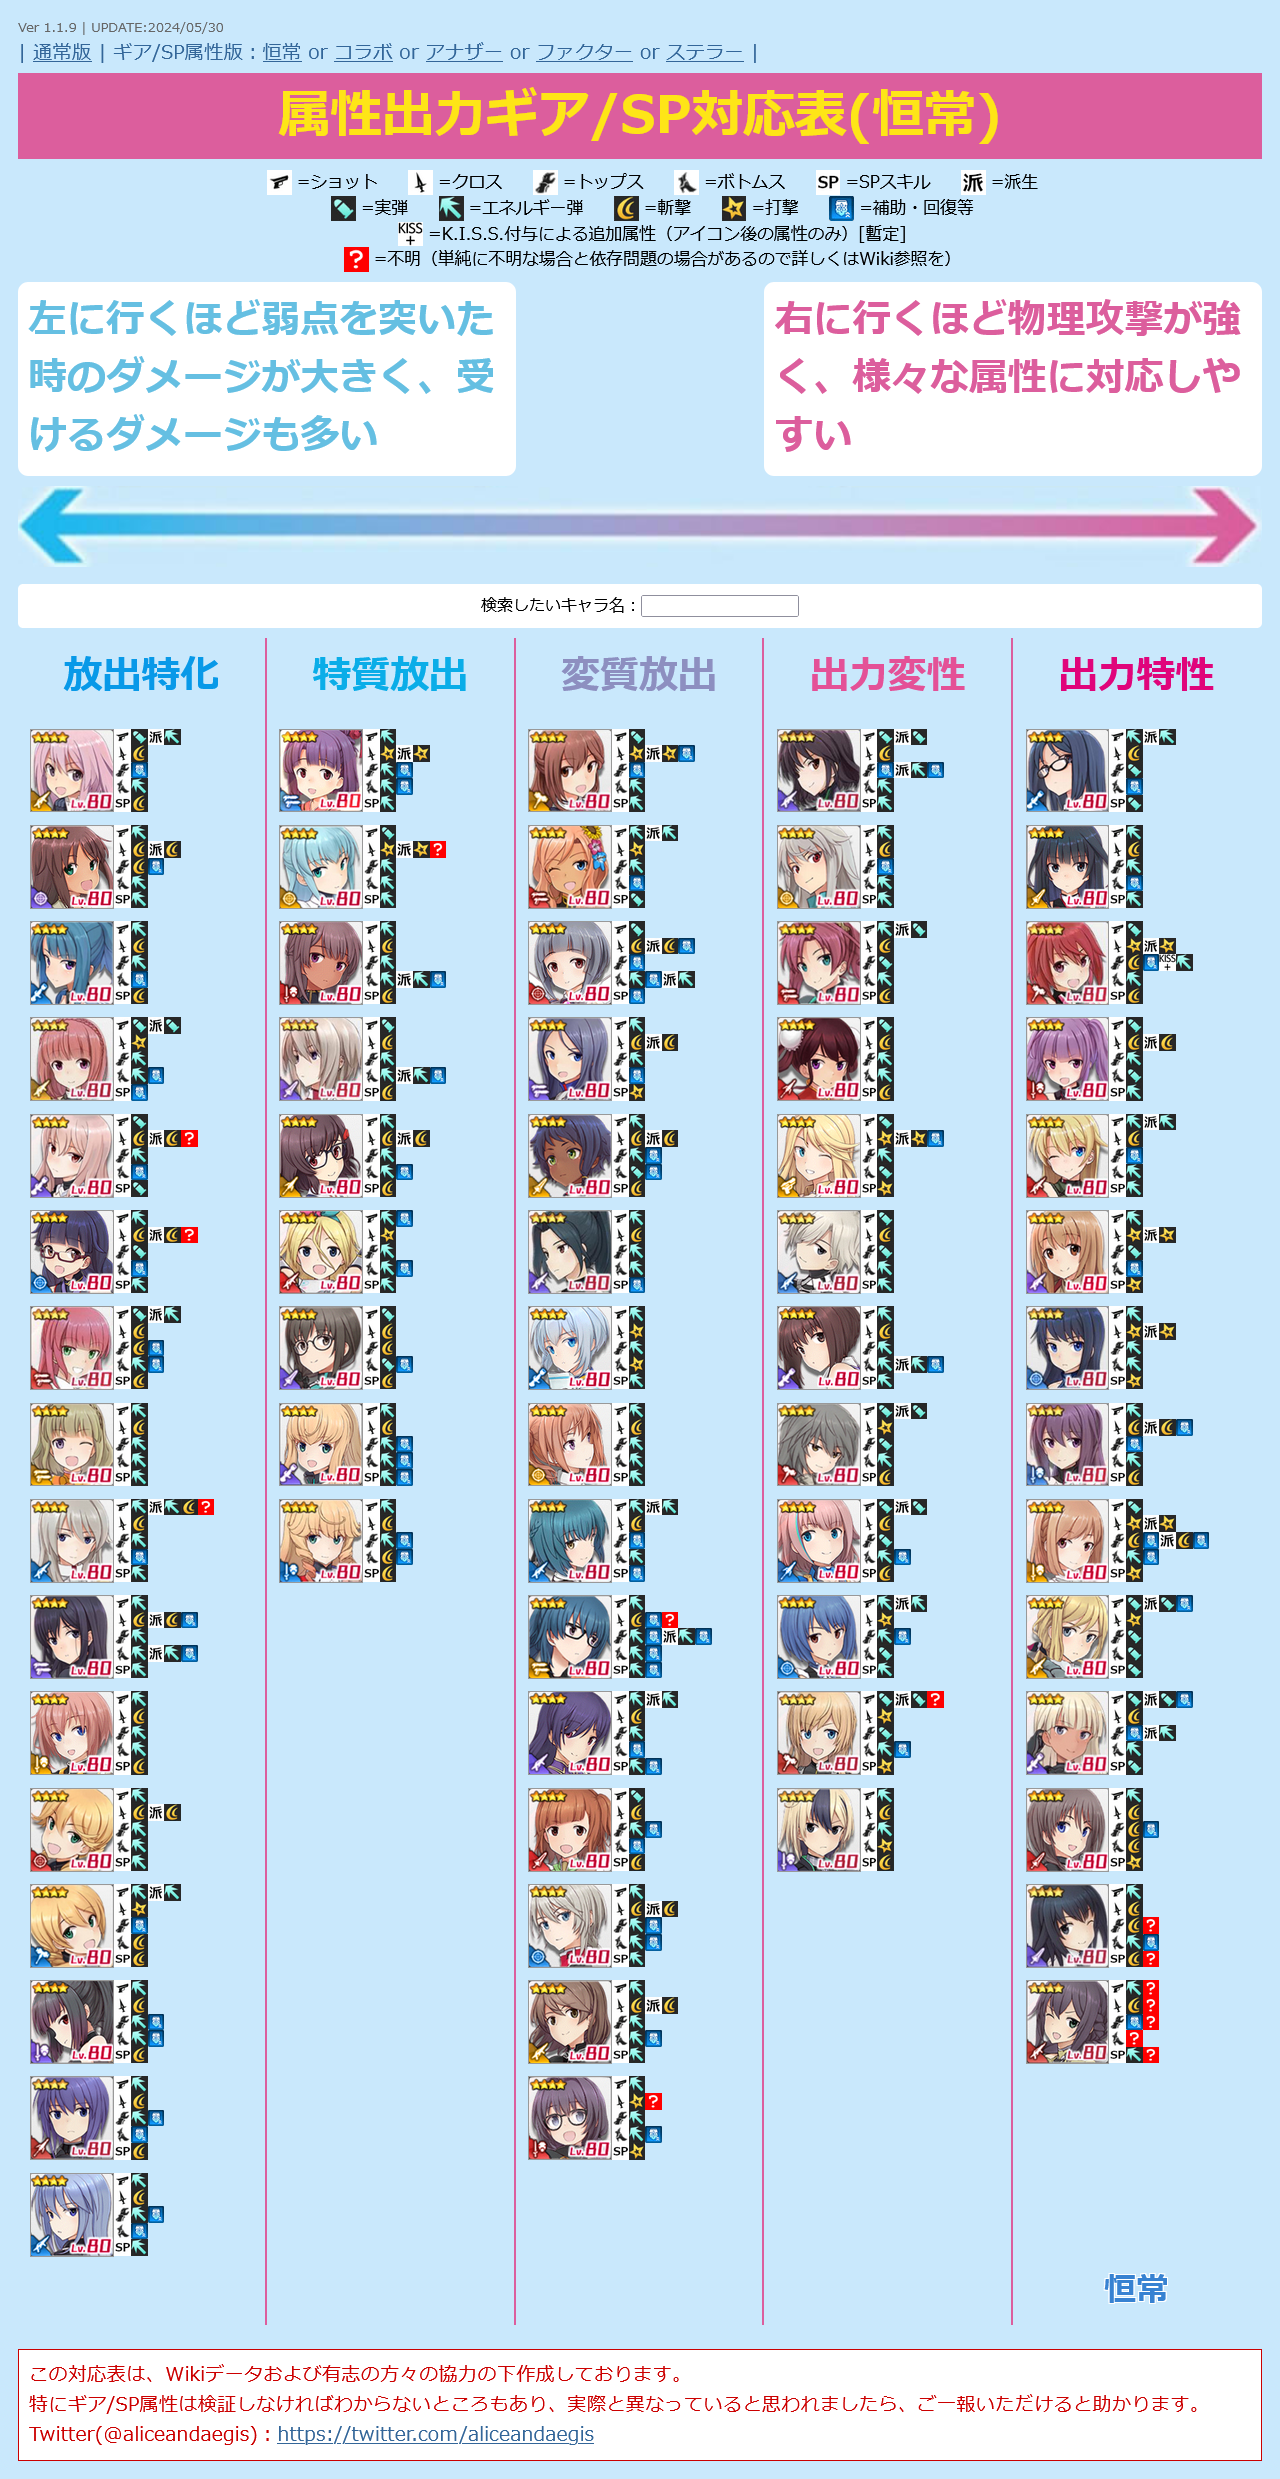
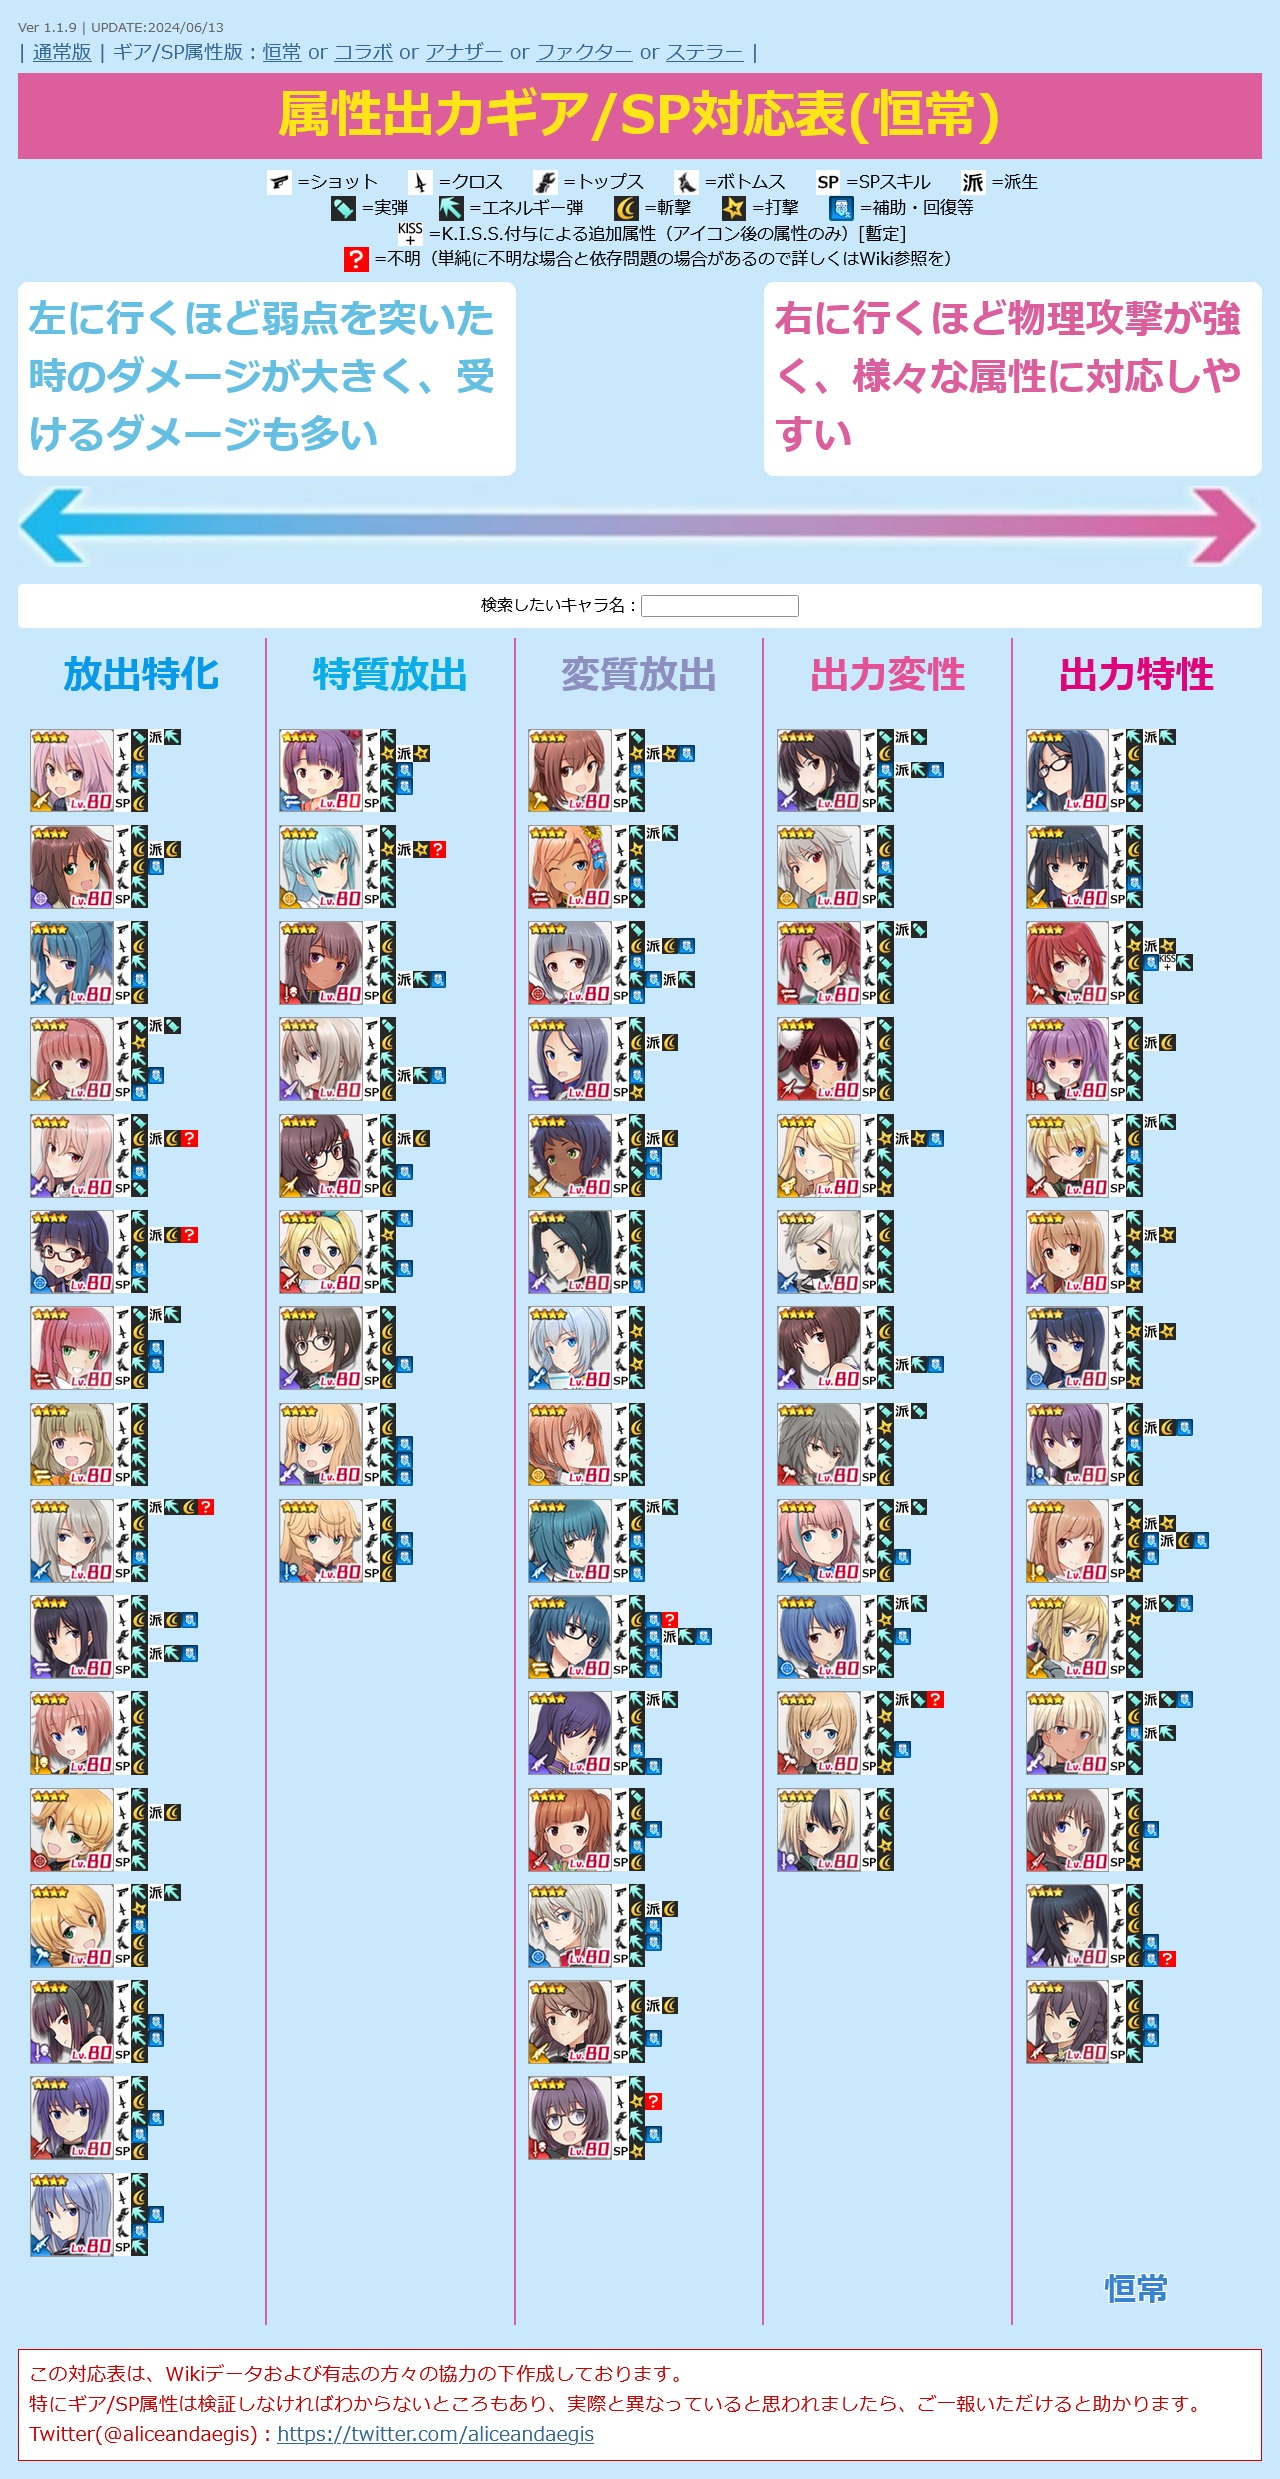
UPDATE charadata
・ステラー 萬場 盟華 / サンを追加

diff --git a/alice.html b/alice.html
@@ -12,7 +12,7 @@
   <script>
 
 /* 更新情報 必要に応じて書き換えてください */
-  var version = "Ver 1.1.9 | UPDATE:2024/05/30";
+  var version = "Ver 1.1.9 | UPDATE:2024/06/13";
 
 
 /*
@@ -737,6 +737,20 @@
       "attr": "3",
       "link": "https://wikiwiki.jp/alicegear/%E8%90%AC%E5%A0%B4%E7%9B%9F%E8%8F%AF%E6%A5%B5%E5%BD%A9",
       "category": "10"
+    },
+    {
+      "id": "17",
+      "type": "4",
+      "src": "stellar-meika.png",
+      "name": "萬場 盟華 / サン",
+      "equip1": "2/2",
+      "equip2": "4",
+      "equip3": "2",
+      "equip4": "5",
+      "sp": "3",
+      "attr": "4",
+      "link": "https://wikiwiki.jp/alicegear/%E8%90%AC%E5%A0%B4%E7%9B%9F%E8%8F%AF/%E3%82%B5%E3%83%B3",
+      "category": "12"
     },
     {
       "id": "18",
@@ -2129,11 +2143,11 @@
       "type": "5",
       "src": "normal-isami.png",
       "name": "遊馬 勇",
-      "equip1": "2?",
-      "equip2": "3?",
-      "equip3": "5?",
-      "equip4": "?",
-      "sp": "2?",
+      "equip1": "2",
+      "equip2": "3",
+      "equip3": "35",
+      "equip4": "25",
+      "sp": "2",
       "attr": "4",
       "link": "https://wikiwiki.jp/alicegear/%E9%81%8A%E9%A6%AC%E5%8B%87",
       "category": ""
